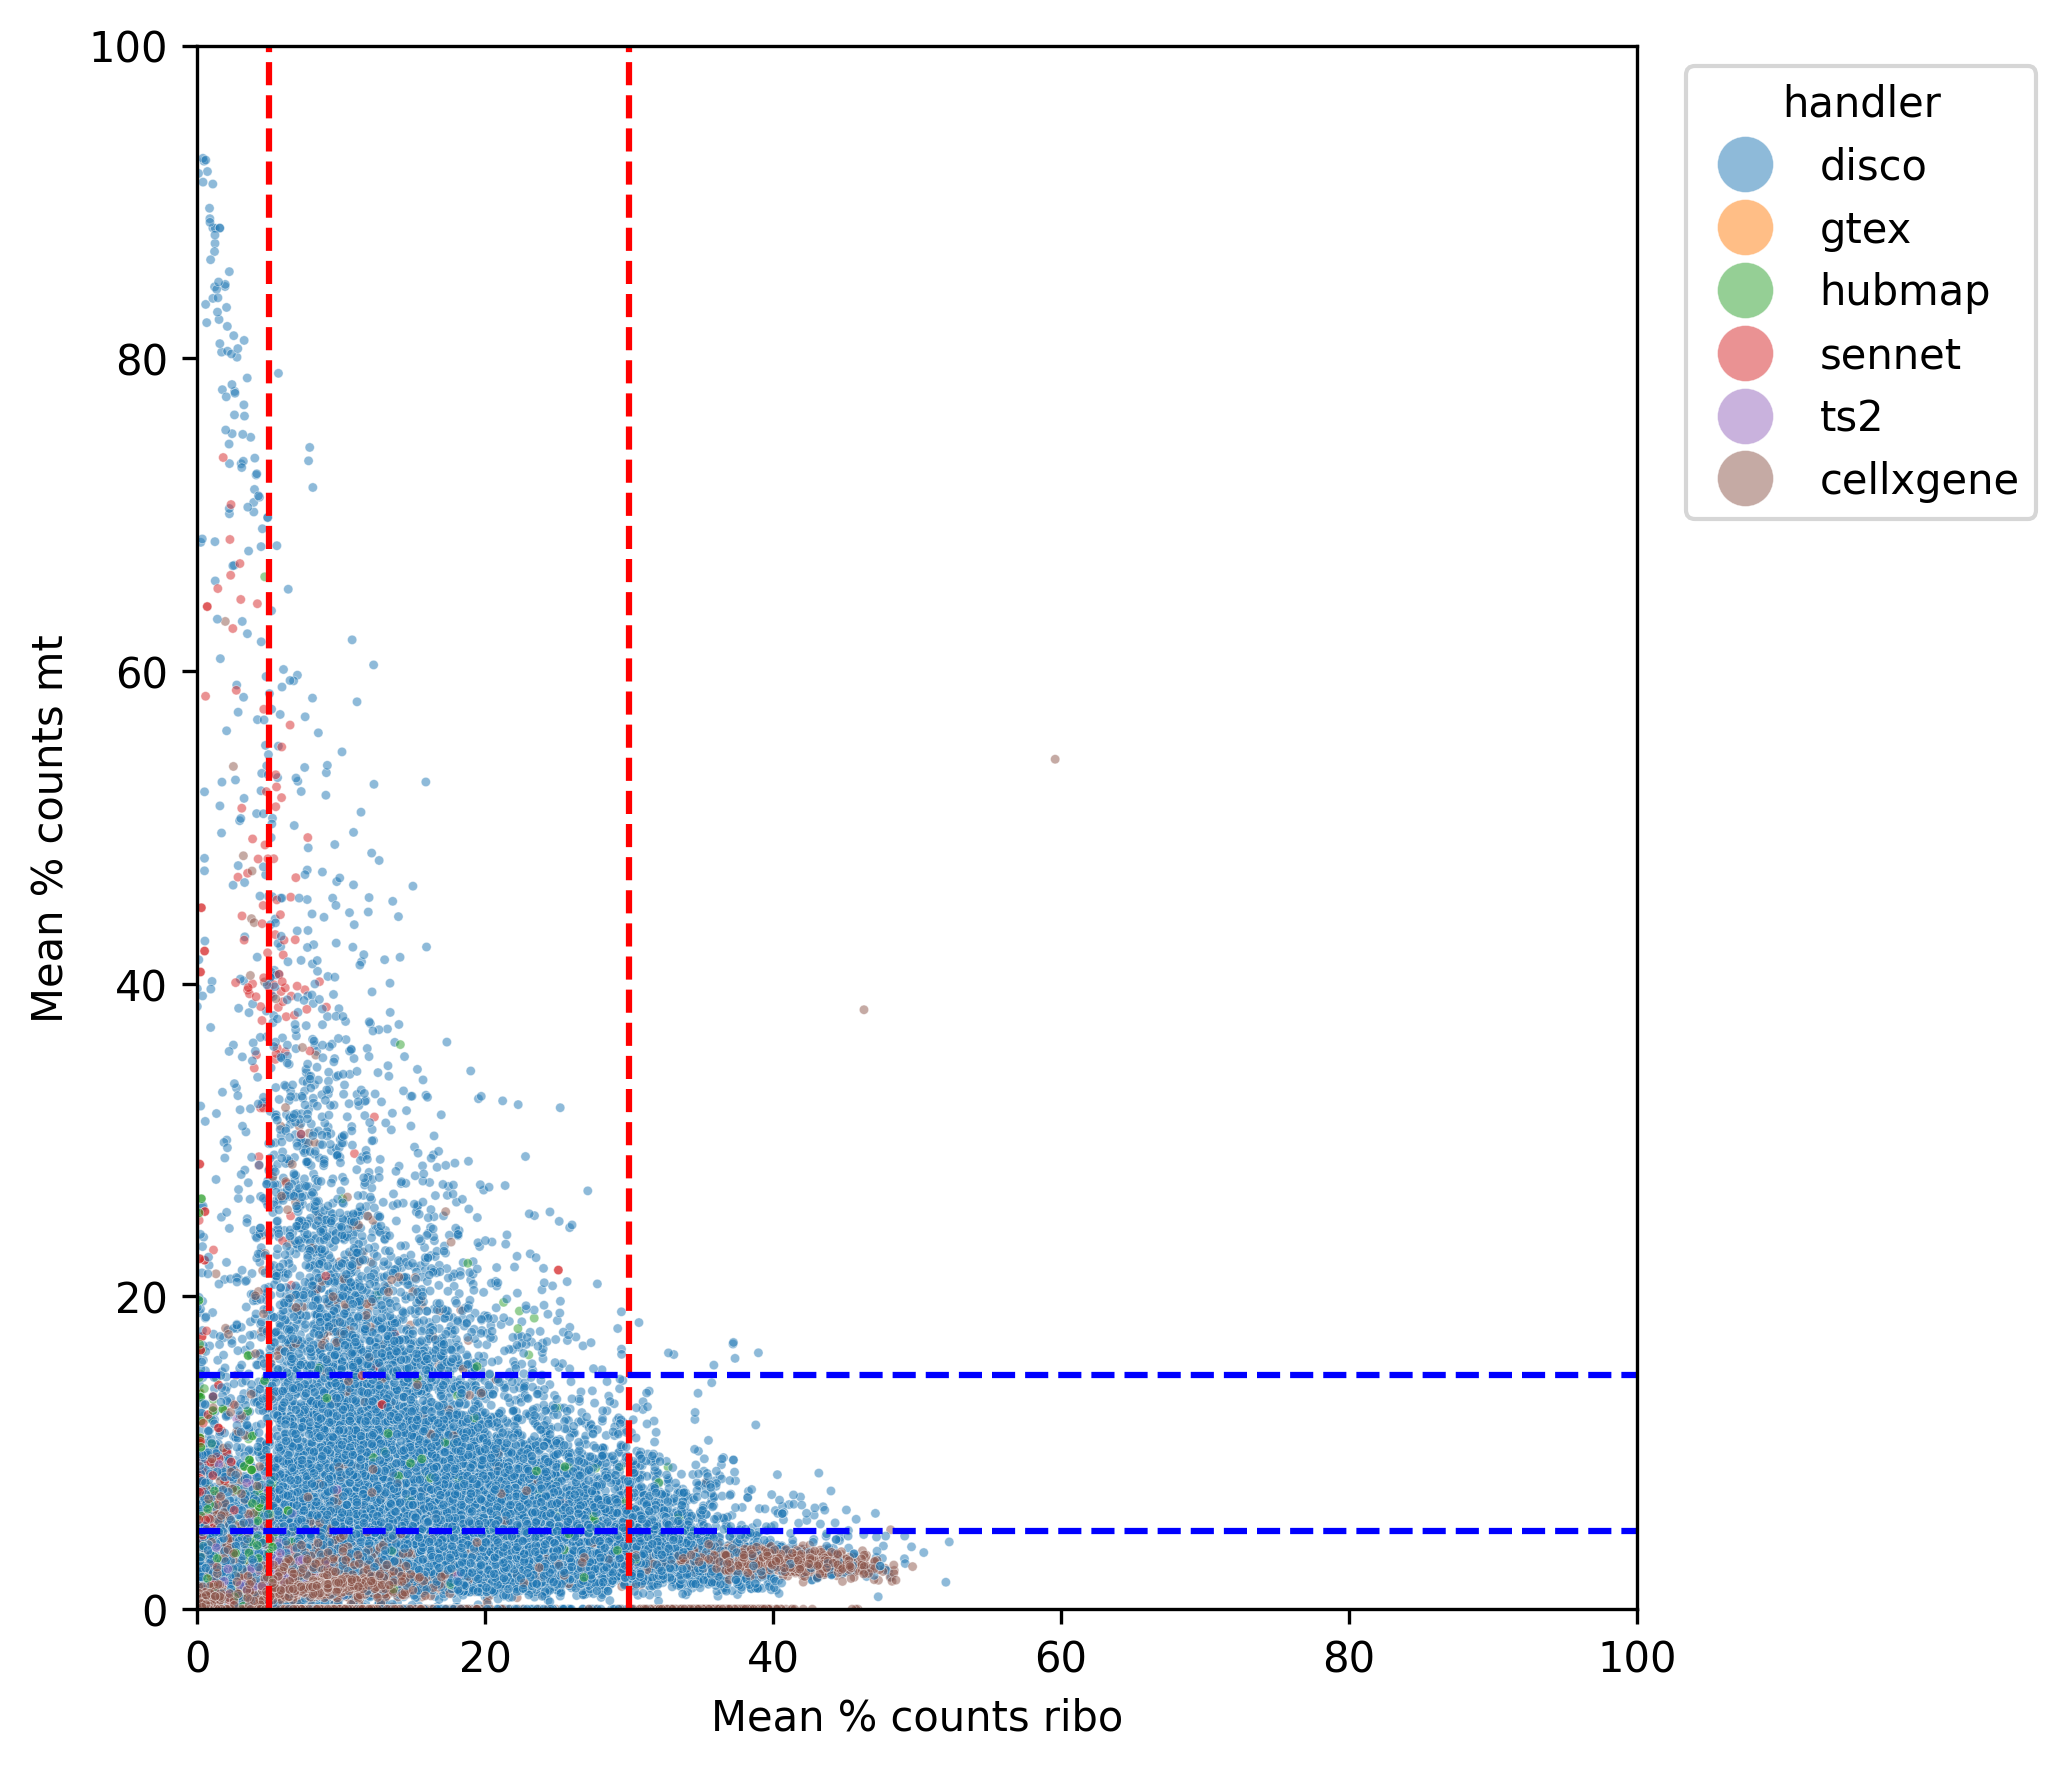
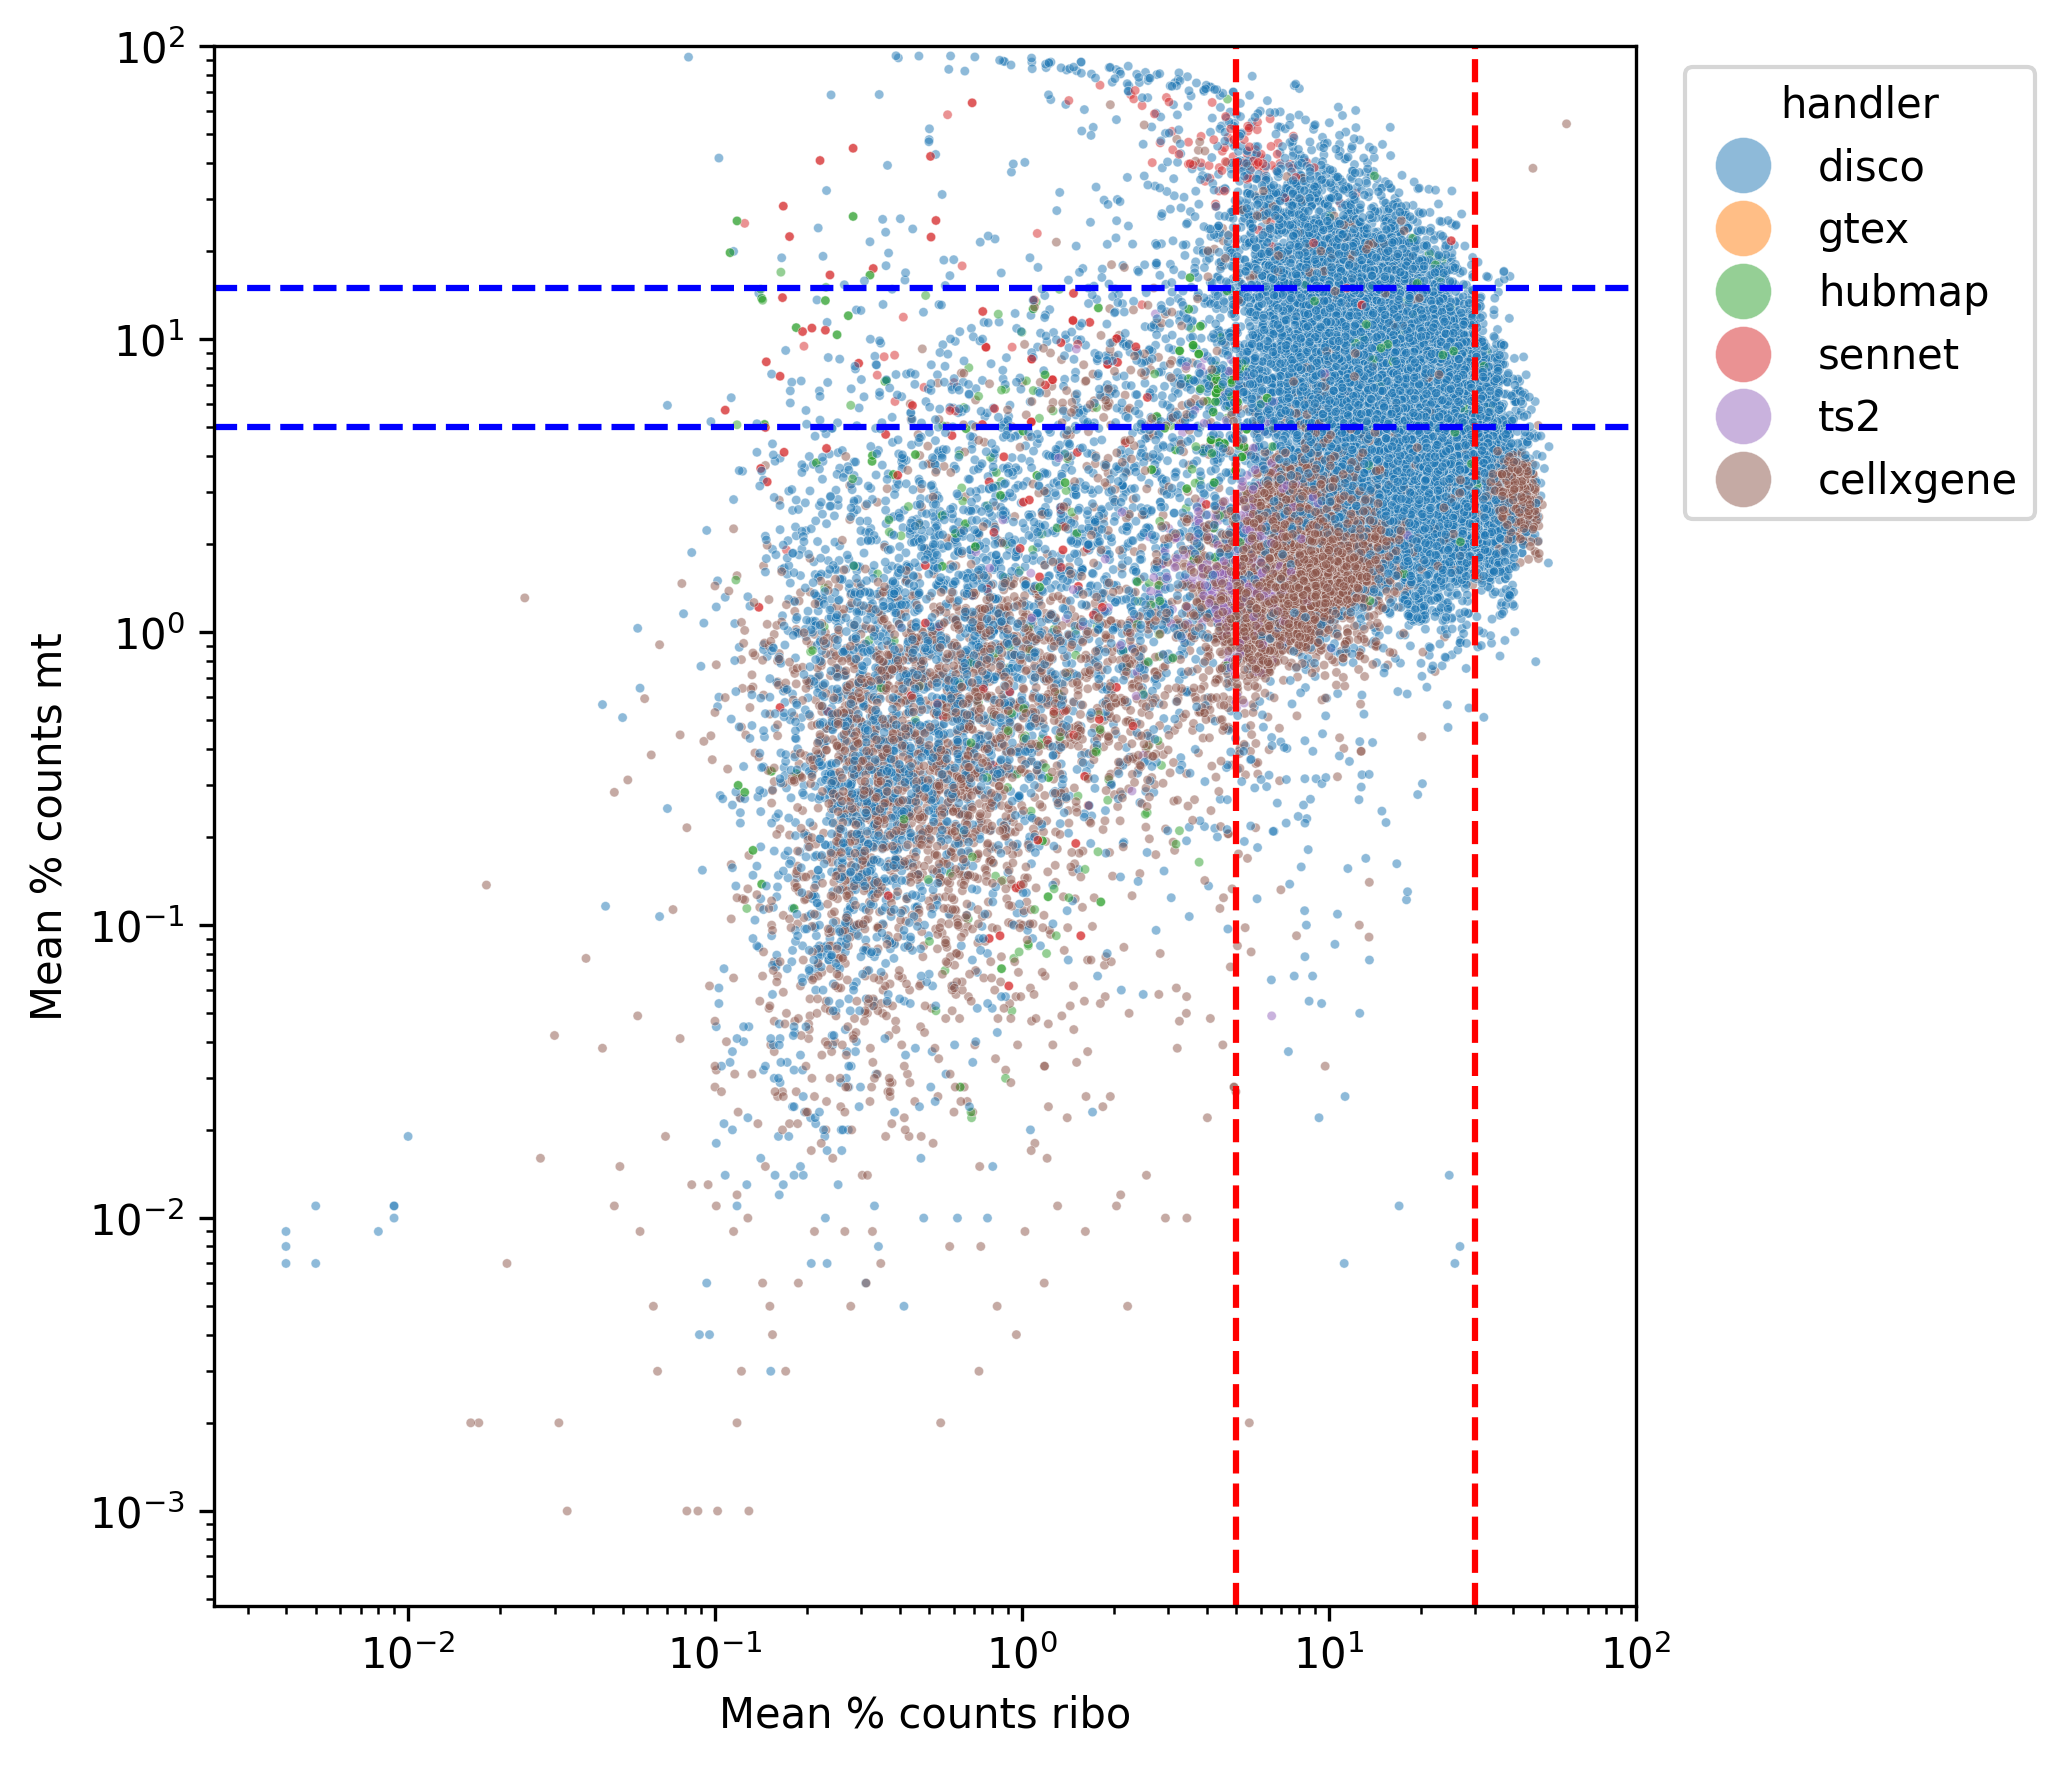
Added log scale

diff --git a/qc/10-hra-pop-v1.1-qc.py b/qc/10-hra-pop-v1.1-qc.py
@@ -133,6 +133,9 @@ def make_visualization(df: pd.DataFrame) -> None:
         linewidth=1.5,
     )
 
+    plt.xscale("log")
+    plt.yscale("log")
+
     ax.set_xlim(0, 100)
     ax.set_ylim(0, 100)
     ax.set_xlabel('Mean % counts ribo')
